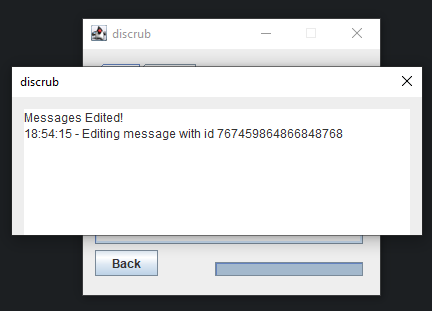
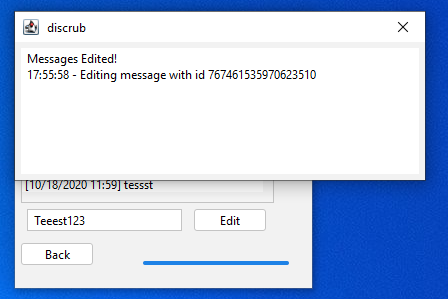
Update screenshots and readme

diff --git a/README.md b/README.md
@@ -5,7 +5,7 @@
 
 <a href="https://github.com/prathercc/discrub/raw/development/Discrub.jar"><img src="https://img.shields.io/badge/Discrub.jar-Download-blue.svg?style=plastic&logo=java"></a>
 
-#  - Discrub - 
+#  Discrub
 
  **Discrub** is a [Java](https://java.com/en/) application that is used to manipulate message data for [Discord](https://discord.com/).
  Using [Swing](https://openjdk.java.net/groups/swing/#:~:text=Swing%20is%20a%20Graphical%20User,color%20choosers%20and%20combo%20boxes.) and hitting the public [Discord API](https://discord.com/developers/docs/intro) for all data manipulation.
